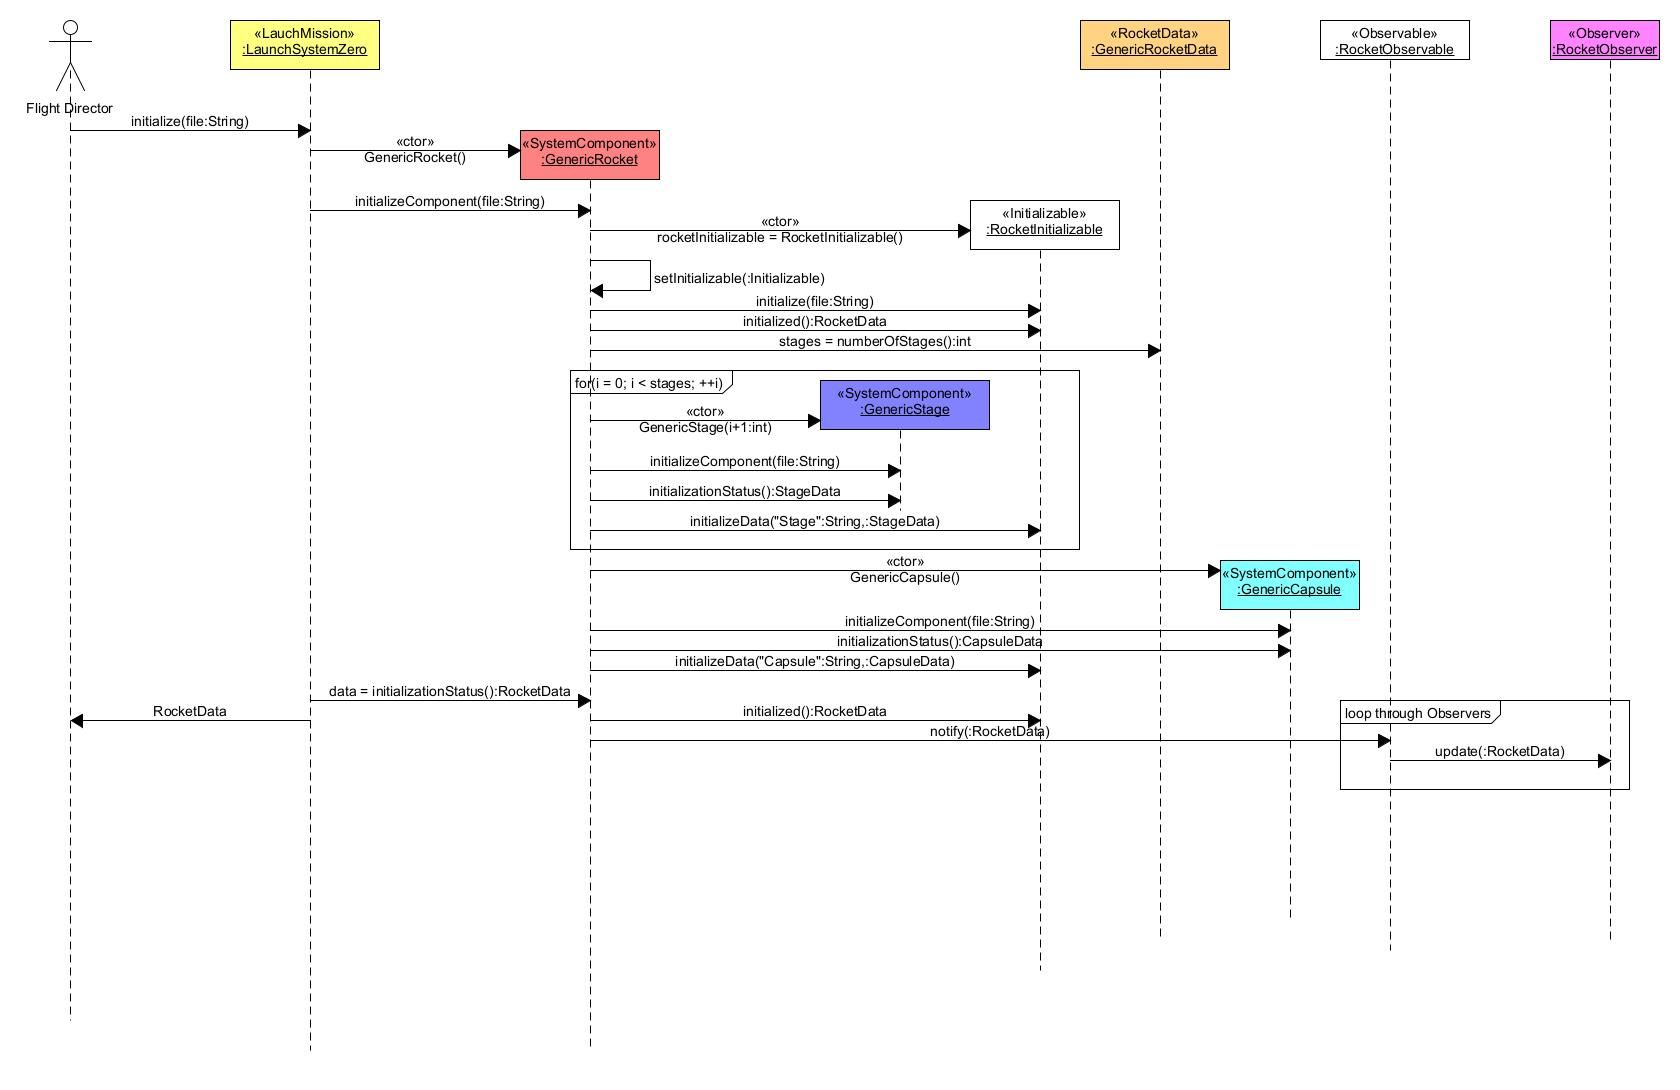
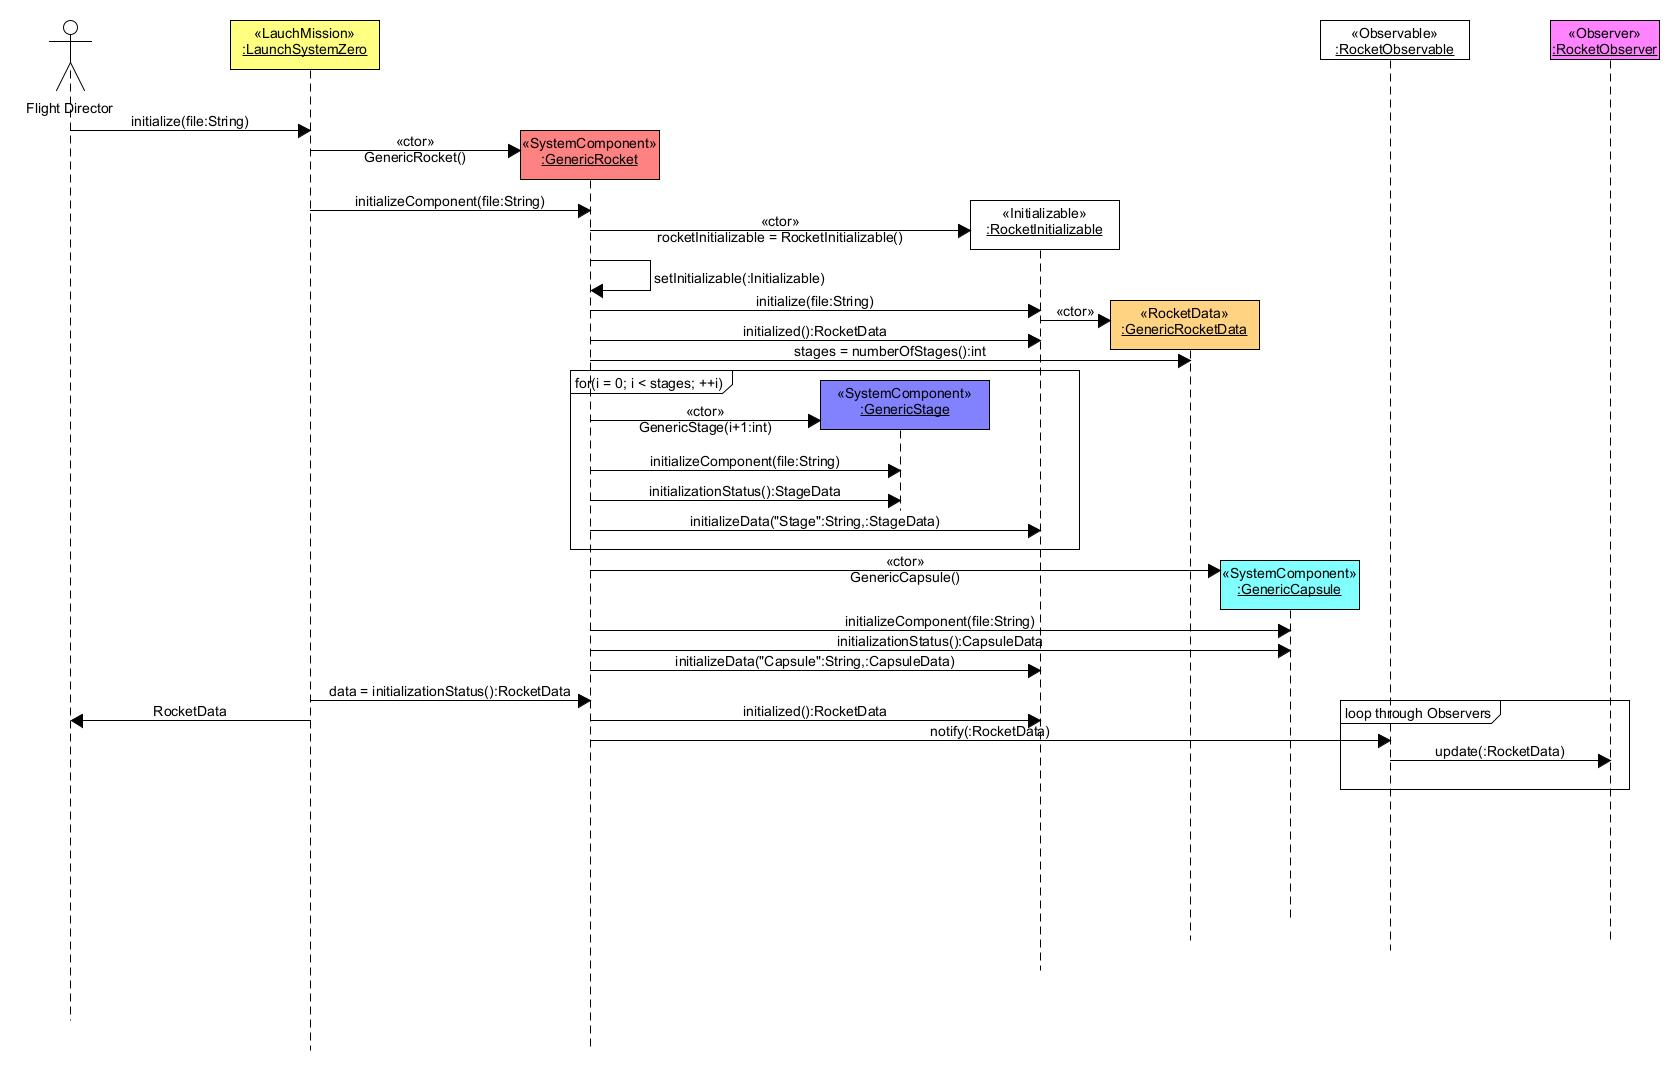
05-01-26-00

Changed region(s): [[0.619, 0.2495, 0.7738, 0.3431], [0.4333, 0.2807, 0.619, 0.3431], [0.619, 0.0, 0.7429, 0.0624]]

diff --git a/GenericRocket.java b/GenericRocket.java
@@ -52,8 +52,8 @@ public class GenericRocket extends Rocket implements  Runnable{
    private List<Stage>         _stages;
    private boolean             _start;
    //private LaunchStateSubstate _state;
-   private RocketData          _rocketData;
-   private RocketData          _measRocketData;
+   //private RocketData          _rocketData;
+   //private RocketData          _measRocketData;
 
    {
       INIT      = LaunchStateSubstate.State.INITIALIZE;
@@ -80,8 +80,8 @@ public class GenericRocket extends Rocket implements  Runnable{
       _start            = false;
       //_state            = null;
       //_systemListeners  = null;
-      _rocketData       = null;
-      _measRocketData   = null;
+      //_rocketData       = null;
+      //_measRocketData   = null;
    };
 
[1 lines of base64/hex data omitted]

diff --git a/RocketInitializable.java b/RocketInitializable.java
@@ -189,6 +189,11 @@ public class RocketInitializable implements Initializable{
    //
    //
    //
+   public void initializeData(String key, Object data){}
+
+   //
+   //
+   //
    public Object initialized(){
       return this._rocketData;
    }

diff --git a/Initializable.java b/Initializable.java
@@ -23,6 +23,7 @@ import java.io.*;
 import rosas.lou.runnables.*;
 public interface Initializable{
    public void initialize(String file) throws IOException;
+   public void initializeData(String key, Object data);
    public Object initialized();
 }
 //////////////////////////////////////////////////////////////////////

diff --git a/SystemComponent.java b/SystemComponent.java
@@ -26,7 +26,6 @@ public abstract class SystemComponent implements StateMutable{
    protected Initializable       initializable = null;
    protected LaunchStateSubstate stateSubstate = null;
 
-//IOException
    ///////////////////////////Public Methods//////////////////////////
    //
    //